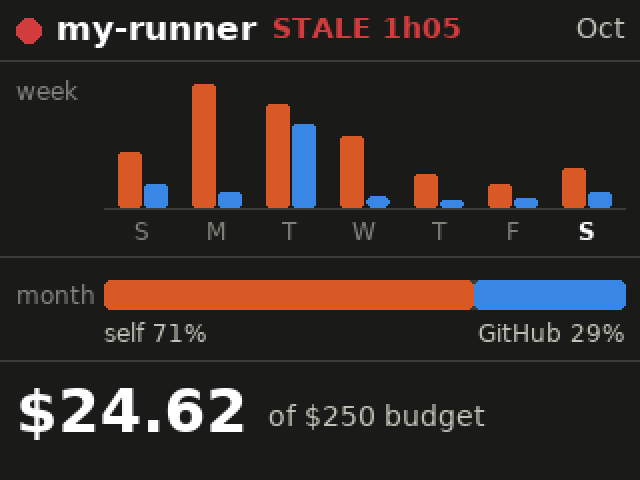
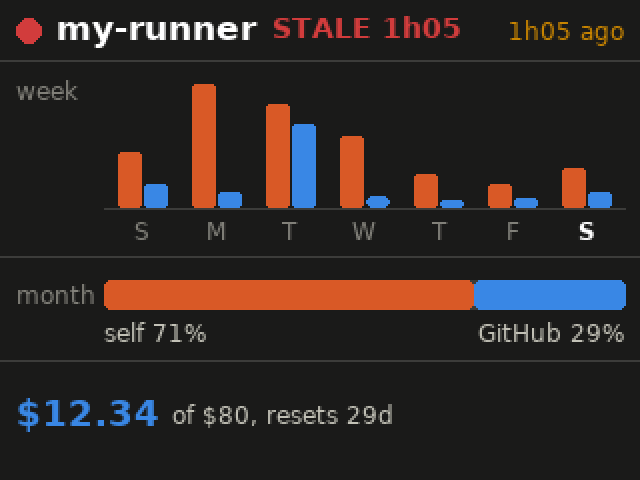
WIP synthetic examples

Changed region(s): [[0.0312, 0.7812, 0.75, 0.9062], [0.7812, 0.0312, 1.0, 0.0938]]

diff --git a/host/dc32host/attention.py b/host/dc32host/attention.py
@@ -3,7 +3,7 @@
 A separate process writes ~/.cache/dc32-display/attention.json (this daemon only reads it):
   {"at": "<ISO UTC>", "indicators": [{"id", "label", "lit", "level", "reason", "tag", "since", "link"}, ...]}
 reason is the descriptor under the label (an optional `segments` [{t, level}] draws it in one colour per piece) (the writer keeps it to 12 characters; an unlit indicator may still carry one);
-tag (Lab, Ops, API, Eng) is drawn before it in a category colour. since is not shown.
+A short tag is drawn before it in a category colour. since is not shown.
 Each indicator owns one LED (config `attention_leds`: id -> LED index) and one screen slot
 (config `attention_slots`: id -> "left_top" ... "right_low"). Lit = needs you, off = nothing for you.
 The badge has five front LEDs, placed around the screen: left top (beside the
@@ -213,8 +213,9 @@ TH_VIOLET = (164, 132, 196)    # clear labels
 TH_DIM = (98, 74, 128)
 TH_GLOW = (96, 30, 0)          # under a lit trace
 TH_SOFT = (128, 100, 160)      # descriptor of a clear signal that still has one (CI spend)
-# Category tag colours
-TAG_RGB = {"Lab": (0x5f, 0xd7, 0xff), "Ops": (0xff, 0xaf, 0x5f), "API": (0xff, 0x87, 0xd7), "Eng": (0xaf, 0xff, 0x5f)}
+# Standard categories use fixed colours; custom short tags use cyan.
+DEFAULT_TAG_RGB = (0x5f, 0xd7, 0xff)
+TAG_RGB = {"Ops": (0xff, 0xaf, 0x5f), "API": (0xff, 0x87, 0xd7), "Eng": (0xaf, 0xff, 0x5f)}
 L1W = 150                     # label + counts line; only the right column's "Priority blocked" (116 px) plus "2R 1Y" needs more than COLW
 COLW = 130                     # hard cap on a column's text width; left starts at x=22, right ends at x=298, so they never meet
 
@@ -327,7 +328,8 @@ def render(state, slots_map=None, now=None, boxes=None):
         countw = sum(cw) + 4 if runs else 0
         label = _fit(d, ind.get("label") or ind["id"].replace("_", " "), f_l, (L1W if runs else COLW) - countw)
         # descriptor: [tag] reason, one line, never wider than the column
-        tag = ind.get("tag") if lit and ind.get("tag") in TAG_RGB else ""
+        tag = ind.get("tag")
+        tag = tag if lit and isinstance(tag, str) and 0 < len(tag) <= 3 else ""
         tagw = d.textlength(tag + " ", font=f_tag) if tag else 0
         reason = "" if stale or not ind.get("reason") else _fit(d, str(ind["reason"]), f_d, COLW - tagw)
         # per-segment colours ("Cl 30% Cx 4%": each plan in its own level colour, neutral in the soft descriptor colour)
@@ -349,7 +351,7 @@ def render(state, slots_map=None, now=None, boxes=None):
             put(side, (cx, y + 2), t, f_cnt, c)
             cx += w
         if tag:
-            put(side, (dx, y + 31), tag, f_tag, TAG_RGB[tag], "ls")
+            put(side, (dx, y + 31), tag, f_tag, TAG_RGB.get(tag, DEFAULT_TAG_RGB), "ls")
         if pieces:
             px = dx + tagw
             for t, c in pieces:

diff --git a/tests/test_attention.py b/tests/test_attention.py
@@ -48,7 +48,7 @@ FIXTURES = {
     'two': doc(40, {'production': 'labbox off', 'pr_waiting': 'sample#12'}, {'pr_waiting': 'Ops'}),
     'stale': doc(25 * 60, {'production': 'Health down'}),
     'red': doc(40, {'priority_blocked': 'Demo task', 'spend': '$70/$80'}, {'priority_blocked': 'Lab'}, levels={'spend': 'red'}),
-    # all five lit with the longest real strings (the live state on 2026-10-13 plus the longest short a writer can emit)
+    # Synthetic descriptors exercise all five lights and the maximum display width.
     'longest': doc(40, {'priority_blocked': 'Lab account', 'production': 'deskpc off', 'spend': '$70/$80',
                         'capacity': 'Claude bal: 17%', 'pr_waiting': 'sample#1234'},
                    {'priority_blocked': 'Ops', 'pr_waiting': 'Ops'}, levels={'spend': 'red', 'capacity': 'red', 'production': 'yellow'}),
@@ -217,8 +217,13 @@ class Columns(unittest.TestCase):
         self.assertFalse((A.render(A.load(write(quiet), now=NOW), now=NOW) == A.render(A.load(write(bare), now=NOW), now=NOW)).all())
         self.assertEqual(A.lit_leds(A.load(write(quiet), now=NOW), A.DEFAULT_LEDS), set())
 
-    def test_tag_colour_follows_the_dashboard(self):
-        self.assertEqual(set(A.TAG_RGB), {'Lab', 'Ops', 'API', 'Eng'})
+    def test_standard_and_custom_tag_colours(self):
+        self.assertEqual(set(A.TAG_RGB), {'Ops', 'API', 'Eng'})
+        boxes = []
+        custom = A.render(A.load(write(FIXTURES['red']), now=NOW), now=NOW, boxes=boxes)
+        tag_box = min((b for b in boxes if b[0] == 'right' and 150 < b[2] < 170), key=lambda b: b[1])
+        _, x0, y0, x1, y1 = tag_box
+        self.assertTrue(((custom[y0:y1, x0:x1] == np.array(A.DEFAULT_TAG_RGB)).all(axis=2)).any())
         im = A.render(A.load(write(FIXTURES['api']), now=NOW), now=NOW)
         self.assertTrue(((im == np.array(A.TAG_RGB['API'])).all(axis=2)).any())
 

diff --git a/tests/test_runner_view.py b/tests/test_runner_view.py
@@ -114,8 +114,8 @@ class RunnerViewTest(unittest.TestCase):
             view(data).render(now=data.fixture['now'])
         self.assertIn('new-runner',texts)
         self.assertTrue(any(t.endswith(' ago') for t in texts))            # 'Last update 5m ago' or '5m ago'
-        self.assertIn('$24.62',texts)
-        self.assertTrue(any(t.startswith('of $250, resets ') for t in texts))
+        self.assertIn('$12.34',texts)
+        self.assertTrue(any(t.startswith('of $80, resets ') for t in texts))
         # no savings line without a computed estimate
         self.assertFalse(any(term in ' '.join(texts).lower() for term in ('saved','12h','list price','paused')))
 
@@ -127,9 +127,9 @@ class RunnerViewTest(unittest.TestCase):
         with patch.object(rv.ImageDraw.ImageDraw,'text',record):
             view(data).render(now=data.fixture['now'])
         ys=dict(seen)
-        self.assertLess(ys['$12.50'],ys['$24.62'])
+        self.assertLess(ys['$12.50'],ys['$12.34'])
         self.assertIn('saved, rolling 30d',ys)
-        self.assertTrue(any(k.startswith('of $250, resets ') for k in ys))
+        self.assertTrue(any(k.startswith('of $80, resets ') for k in ys))
         self.assertTrue(all(y<=226 for _,y in seen))
 
     def test_errors_are_status_only_and_unknown_billing_is_not_zero(self):
@@ -178,7 +178,7 @@ class RunnerViewTest(unittest.TestCase):
             texts.append(text);return original(draw,xy,text,*a,**kw)
         with patch.object(rv.ImageDraw.ImageDraw,'text',record):frame=v.render(now=now)
         self.assertIn('$—',texts)
-        self.assertNotIn('$24.62',texts)
+        self.assertNotIn('$12.34',texts)
         self.assertEqual(tuple(frame[146,180]),rv.GRID)
 
     def test_refresh_button_still_kicks_existing_event(self):

diff --git a/README.md b/README.md
@@ -19,7 +19,7 @@ Actions runner cost view.
 |---|---|
 | ![Runner view: status, seven days of minutes, monthly share and billed budget](docs/img/runner-view.png) | ![Cheat sheet of keyboard shortcuts and badge buttons](docs/img/cheat-sheet.png) |
 
-Both are drawn natively at the badge's 320×240 (shown here at 2×; the runner view uses demo data).
+Both are drawn natively at the badge's 320×240 (shown here at 2×; all dashboard screens use synthetic data).
 
 ## Buttons
 
@@ -227,3 +227,14 @@ and 2) are inferred; if two look swapped, `dc32host ctl leds_identify` lights LE
 number on screen, then set `attention_leds`. Calling it again stops it.
 
 ![Report: nothing lit](docs/img/attention-none.png) ![Report: red and yellow](docs/img/attention-red.png) ![Report: stale](docs/img/attention-stale.png)
+
+## Sample data
+
+Documentation dashboard images are rendered from the synthetic fixtures in
+`tests/test_attention.py` and `tests/fixtures/runner-view.json`. They contain no
+live task titles, repository names or usage totals. The hardware photo shows this
+project running on a badge.
+
+The attention producer is an external integration. This repository only consumes
+`attention.json`; its schema and file location remain unchanged. Custom tags up to three characters
+use cyan, alongside the built-in Ops, API and Eng category colours.
